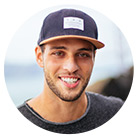
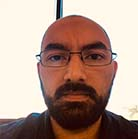
fix2

diff --git a/src/Views/Website/Views/Slider/Slider1.js b/src/Views/Website/Views/Slider/Slider1.js
@@ -46,7 +46,7 @@ const Slider = () => {
                                 data-beforeafter="before"
                                 data-transform_idle="o:1;" data-transform_in="z:0;rX:0;rY:0;rZ:0;sX:0.9;sY:0.9;skX:0;skY:0;opacity:0;s:1500;e:Power3.easeInOut;" data-transform_out="y:[100%];s:1000;e:Power2.easeInOut;s:1000;e:Power2.easeInOut;" data-mask_out="x:inherit;y:inherit;s:inherit;e:inherit;"
                                 data-start="1200" data-splitin="none" data-splitout="none"
-                                style={{ zIndex: 2, fontWeight: 700, letterSpacing: "1px", color: "#ffffff", fontFamily: "'Poppins', sans-serif", textTransform: "capitalize" }}>antonomasia auto-regenerativo
+                                style={{ zIndex: 2, fontWeight: 700, letterSpacing: "1px", color: "#ffffff", fontFamily: "'Poppins', sans-serif", textTransform: "capitalize" }}>REGEONERATION
                             </div><div class="tp-caption tp-resizeme rs-parallaxlevel-5"
                                 data-x="['center','center','center','center']" data-hoffset="['0','0','0','0']"
                                 data-y="['middle','middle','middle','middle']" data-voffset="['-70','-70','-70','-70']"
@@ -57,7 +57,7 @@ const Slider = () => {
                                 data-beforeafter="after"
                                 data-transform_idle="o:1;" data-transform_in="z:0;rX:0;rY:0;rZ:0;sX:0.9;sY:0.9;skX:0;skY:0;opacity:0;s:1500;e:Power3.easeInOut;" data-transform_out="y:[100%];s:1000;e:Power2.easeInOut;s:1000;e:Power2.easeInOut;" data-mask_out="x:inherit;y:inherit;s:inherit;e:inherit;"
                                 data-start="1200" data-splitin="none" data-splitout="none"
-                                style={{ zIndex: 2, fontWeight: 700, letterSpacing: "1px", color: "#ffffff", fontFamily: "'Poppins', sans-serif", textTransform: "capitalize" }}>antonomasia auto-regenerativo
+                                style={{ zIndex: 2, fontWeight: 700, letterSpacing: "1px", color: "#ffffff", fontFamily: "'Poppins', sans-serif", textTransform: "capitalize" }}>REGEONERATION
                             </div>
                             <div class="tp-caption tp-resizeme rs-parallaxlevel-5"
                                 data-x="['center','center','center','center']" data-hoffset="['0','0','0','0']"
@@ -169,7 +169,7 @@ const Slider = () => {
                                 data-beforeafter="before"
                                 data-transform_idle="o:1;" data-transform_in="z:0;rX:0;rY:0;rZ:0;sX:0.9;sY:0.9;skX:0;skY:0;opacity:0;s:1500;e:Power3.easeInOut;" data-transform_out="y:[100%];s:1000;e:Power2.easeInOut;s:1000;e:Power2.easeInOut;" data-mask_out="x:inherit;y:inherit;s:inherit;e:inherit;"
                                 data-start="1200" data-splitin="none" data-splitout="none"
-                                style={{ zIndex: 2, fontWeight: 700, letterSpacing: 1, color: "#ffffff", fontFamily: "'Poppins', sans-serif", textTransform: "capitalize" }}>antonomasia auto-regenerativo
+                                style={{ zIndex: 2, fontWeight: 700, letterSpacing: 1, color: "#ffffff", fontFamily: "'Poppins', sans-serif", textTransform: "capitalize" }}>REGEONERATION
                             </div>
                             <div class="tp-caption tp-resizeme rs-parallaxlevel-5"
                                 data-x="['center','center','center','center']" data-hoffset="['0','0','0','0']"
@@ -181,7 +181,7 @@ const Slider = () => {
                                 data-beforeafter="after"
                                 data-transform_idle="o:1;" data-transform_in="z:0;rX:0;rY:0;rZ:0;sX:0.9;sY:0.9;skX:0;skY:0;opacity:0;s:1500;e:Power3.easeInOut;" data-transform_out="y:[100%];s:1000;e:Power2.easeInOut;s:1000;e:Power2.easeInOut;" data-mask_out="x:inherit;y:inherit;s:inherit;e:inherit;"
                                 data-start="1200" data-splitin="none" data-splitout="none"
-                                style={{ zIndex: 2, fontWeight: 700, letterSpacing: 1, color: "#ffffff", fontFamily: "'Poppins', sans-serif", textTransform: "capitalize" }}>antonomasia auto-regenerativo
+                                style={{ zIndex: 2, fontWeight: 700, letterSpacing: 1, color: "#ffffff", fontFamily: "'Poppins', sans-serif", textTransform: "capitalize" }}>REGEONERATION
                             </div>
                             <div class="tp-caption tp-resizeme rs-parallaxlevel-5"
                                 data-x="['center','center','center','center']" data-hoffset="['0','0','0','0']"
@@ -304,7 +304,7 @@ const Slider = () => {
                                 data-beforeafter="before"
                                 data-transform_idle="o:1;" data-transform_in="z:0;rX:0;rY:0;rZ:0;sX:0.9;sY:0.9;skX:0;skY:0;opacity:0;s:1500;e:Power3.easeInOut;" data-transform_out="y:[100%];s:1000;e:Power2.easeInOut;s:1000;e:Power2.easeInOut;" data-mask_out="x:inherit;y:inherit;s:inherit;e:inherit;"
                                 data-start="1200" data-splitin="none" data-splitout="none"
-                                style={{zIndex:2, fontWeight: 700, letterSpacing: 1, color: "#ffffff", fontFamily: "'Poppins', sans-serif",textTransform:"capitalize"}}>antonomasia auto-regenerativo
+                                style={{ zIndex: 2, fontWeight: 700, letterSpacing: 1, color: "#ffffff", fontFamily: "'Poppins', sans-serif", textTransform: "capitalize" }}>REGEONERATION
                             </div>
                             <div class="tp-caption tp-resizeme rs-parallaxlevel-5"
                                 data-x="['center','center','center','center']" data-hoffset="['0','0','0','0']"
@@ -316,20 +316,38 @@ const Slider = () => {
                                 data-beforeafter="after"
                                 data-transform_idle="o:1;" data-transform_in="z:0;rX:0;rY:0;rZ:0;sX:0.9;sY:0.9;skX:0;skY:0;opacity:0;s:1500;e:Power3.easeInOut;" data-transform_out="y:[100%];s:1000;e:Power2.easeInOut;s:1000;e:Power2.easeInOut;" data-mask_out="x:inherit;y:inherit;s:inherit;e:inherit;"
                                 data-start="1200" data-splitin="none" data-splitout="none"
-                                style={{zIndex:2, fontWeight: 700, letterSpacing: 1, color: "#ffffff", fontFamily: "'Poppins', sans-serif",textTransform:"capitalize"}}>antonomasia auto-regenerativo
+                                style={{ zIndex: 2, fontWeight: 700, letterSpacing: 1, color: "#ffffff", fontFamily: "'Poppins', sans-serif", textTransform: "capitalize" }}>
                             </div>
                             <div class="tp-caption tp-resizeme"
-                                id="slide-24-layer-128" data-x="['center','center','center','center']"
-                                data-hoffset="['0','0','0','0']" data-y="['bottom','bottom','bottom','bottom']"
-                                data-voffset="['140','70','70','130']"
-                                data-width="['160','160','160','160']"
-                                data-frames='[{"delay":600,"speed":2000,"frame":"0","from":"sX:1;sY:1;opacity:0;fb:40px;","to":"o:1;fb:0;","ease":"Power4.easeInOut"},{"delay":"wait","speed":300,"frame":"999","to":"opacity:0;fb:0;","ease":"Power3.easeInOut"}]'
-                                data-textAlign="['center','center','center','center']"
-                                style={{zIndex:99, maxWidth: 960}}>
-                                <a href="#page2" class="scroll btn btn-large btn-rounded btn-blue color-white link">get started
-                                </a>
+                                data-x="['center','center','center','center']" data-hoffset="['0','0','0','0']"
+                                data-y="['middle','middle','middle','middle']" data-voffset="['-20','-20','-20','-20']"
+                                data-fontsize="['22','22','18','18']"
+                                data-whitespace="nowrap" data-responsive_offset="on"
+                                data-width="['none','none','none','none']" data-type="text"
+                                data-textalign="['center','center','center','center']"
+                                data-beforeafter="before"
+                                data-transform_idle="o:1;"
+                                data-transform_in="z:0;rX:0deg;rY:0;rZ:0;sX:2;sY:2;skX:0;skY:0;opacity:0;s:1000;e:Power2.easeOut;"
+                                data-transform_out="s:1000;e:Power3.easeInOut;s:1000;e:Power3.easeInOut;"
+                                data-mask_in="x:0px;y:0px;s:inherit;e:inherit;"
+                                data-start="1500" data-splitin="none" data-splitout="none"
+                                style={{ zIndex: 4, fontWeight: 100, color: "#ffffff", lineHeight: 5, fontFamily: "'Open Sans', sans-serif", textTransform: "capitalize" }}>Un token y metaverso respaldado por tierra conservada
                             </div>
-
+                            <div class="tp-caption tp-resizeme"
+                                data-x="['center','center','center','center']" data-hoffset="['0','0','0','0']"
+                                data-y="['middle','middle','middle','middle']" data-voffset="['70','70','70','70']"
+                                data-fontsize="['22','22','18','18']"
+                                data-whitespace="nowrap" data-responsive_offset="on"
+                                data-width="['none','none','none','none']" data-type="text"
+                                data-textalign="['center','center','center','center']"
+                                data-beforeafter="after"
+                                data-transform_idle="o:1;"
+                                data-transform_in="z:0;rX:0deg;rY:0;rZ:0;sX:2;sY:2;skX:0;skY:0;opacity:0;s:1000;e:Power2.easeOut;"
+                                data-transform_out="s:1000;e:Power3.easeInOut;s:1000;e:Power3.easeInOut;"
+                                data-mask_in="x:0px;y:0px;s:inherit;e:inherit;"
+                                data-start="1500" data-splitin="none" data-splitout="none"
+                                style={{ zIndex: 4, fontWeight: 100, color: "#ffffff", lineHeight: 30, fontFamily: "'Open Sans', sans-serif", textTransform: "capitalize" }}>
+                            </div>
                         </li>
                     </ul>
                     {/* <div class="tp-bannertimer tp-bottom" style={{visibility: "hidden !important"}}></div> */}

diff --git a/src/Views/Website/Views/Service/index.js b/src/Views/Website/Views/Service/index.js
@@ -12,37 +12,18 @@ const Service = () => {
                                 <div class="services-icon per-slide">
                                     <i class="lni-cup wow fadeInUp"></i>
                                 </div>
-                                <h1 class="mb-4 text-white per-slide wow fadeInRight font-weight-light shining-text">¿Que es landia?</h1>
+                                <h1 class="mb-4 text-white per-slide wow fadeInRight font-weight-light shining-text">Visión</h1>
                                 <div class="testimonial-line wow fadeInRight"></div>
-                                <p data-aos="fade-left" class="mb-5 per-slide text-white wow fadeInLeft" style={{ textAlign: "justify" }}>Landia reconoce la necesidad de crear y desarrollar nuevas formas de fomento
-                                    económico, a través de prácticas económicas rentables y simbióticas a nivel medioambiental
-                                    y social. En este momento es indispensable poner en práctica sistemas empresariales
-                                    ecológicamente auto-regenerativos1
-                                    , pensados y creados para lograr el mejor rendimiento
-                                    posible con un horizonte autosustentable en el mundo digital y físico. El futuro debe ser por
-                                    antonomasia auto-regenerativo, sino no habrá futuro ni legado ambiental a las siguientes
-                                    generaciones</p>
+                                <p data-aos="fade-left" class="mb-5 per-slide text-white wow fadeInLeft" style={{ textAlign: "justify" }}>La visión de Landia es potenciar, crear, desarrollar e integrar formas de fomento económico que sean simbióticas a nivel medioambiental, social y permitan el desarrollo del espíritu humano y científico. Con esto se busca que los activos naturales que permiten la vida en la tierra, adquieran un valor cuantificable económicamente en el blockchain a través de un marketplace cuya infraestructura base incluye galerías NFT, Token, Turismo Digital, Espacios de Disfrute Físicos y dentro de un Metaverso realista con juegos Play to Earn, así como la conexión e integración de Landia con otros ecosistemas y viceversa. </p>
                             </div>
                             <div class="services-item item text-center text-md-right">
                                 <div class="services-icon per-slide">
                                     <i class="lni-world wow fadeInUp"></i>
                                 </div>
-                                <h1 class="mb-4 text-white per-slide wow fadeInRight font-weight-light shining-text">PROBLEMATIZACIÓN </h1>
+                                <h1 class="mb-4 text-white per-slide wow fadeInRight font-weight-light shining-text">De lo digital a lo físico y de lo físico a lo digital </h1>
                                 <div class="testimonial-line wow fadeInRight"></div>
                                 <p data-aos="fade-left" class="mb-5 per-slide text-white wow fadeInLeft" style={{ textAlign: "justify" }}>
-                                    La pérdida de ecosistemas causará una baja en el GDP de alrededor de $2.7 trillones
-                                    para el 2030, con mayor intensidad para los países de ingresos bajos (Banco Mundial 2021).
-                                    Además, dentro del mundo blockchain los procesos de validación PoW requieren demasiado
-                                    poder energético para funcionar. Landia da una solución real y concisa a este problema global
-                                    antes de que la temperatura global supere los 1,5° C. Utilizando la capacidad tecnológica a
-                                    bajo coste energético interoperable y de consenso del mundo DeFi, dando auge a todo un
-                                    nuevo ecosistema de realidades auto-regenerativas primeramente a través del Token Land
-                                    para financiar proyectos de protección ambiental, investigación científica y espiritual y
-                                    filantropía entrelazadas por corredores biológicos. Comercializando programas empresariales
-                                    e individuales de descarbonización, generando pooles de liquidez, staking, yieldfarming para
-                                    proyectos en incubación, y una vez recaudada la liquidez necesaria también la construcción
-                                    habitacional inteligente CO2 neutral auto sustentable, innovación, entre otras, según se
-                                    pruebe cuales diseños son los más eficaces, eficientes y rentables en la praxis.
+                                    Landia genera una economía que va del mundo físico a lo digital y viceversa, logrando así impactar y generar necesidad en ambas esferas de las 2 realidades y en el punto de encuentro entre ambas: 1. la Realidad Física 2.la realidad del Metaverso Landia 3. Su Conexión con el Resto de Ecosistemas, en aras de una ineludible transición hacia una digitalización. Esta transición conlleva la responsabilidad de transicionar también hacia formas simbióticas y regenerativas en temas medioambientales y sociales.
                                 </p>
                             </div>
                             <div class="services-item item text-center text-md-right">
@@ -51,18 +32,7 @@ const Service = () => {
                                 </div>
                                 <h1 class="mb-4 text-white per-slide wow fadeInRight font-weight-light shining-text">BOSQUES TROPICALES</h1>
                                 <div class="testimonial-line wow fadeInRight"></div>
-                                <p data-aos="fade-left" class="mb-5 per-slide text-white wow fadeInLeft" style={{ textAlign: "justify" }}>
-                                    La necesidad de proteger los bosques y selvas tropicales es uno de los pilares
-                                    máximos para garantizar ambientes globales habitables. Las zonas de flora y fauna tropical
-                                    ocupan menos del 7%, que varían según la definición, de la superficie terrestre de la Tierra,
-                                    pero estas selvas tropicales albergan alrededor de la mitad de las especies de la Tierra y son
-                                    ecológica, económica y culturalmente cruciales para los problemas de seguridad alimentaria
-                                    mundial, cambio climático, biodiversidad y salud humana. (García RA et al. 2009). Además,
-                                    dos tercios de las especies se encuentran en los trópicos (Groombridge y Jenkins 2003), las
-                                    estimaciones actuales son que entre 3,3 y 20 millones de especies residen allí, la inmensa
-                                    mayoría en los bosques tropicales (Lewis, 2006). Si partimos de que las selvas tropicales
-                                    albergan aproximadamente dos tercios de los seres vivientes que existen en la Tierra, con
-                                    altas tasas de endemismo y un gran número de especies raras. </p>
+                                <p data-aos="fade-left" class="mb-5 per-slide text-white wow fadeInLeft" style={{ textAlign: "justify" }}>Landia es una plataforma DeFi cuya misión principal es regenerar 250 millones de hectáreas de bosque en los próximos 14 años sin caer en prácticas monocultivistas, a través de planes de manejo forestal y ambiental premeditados. A través de nuestra economía circular, políticas de gobernanza y consenso a través de nuestro DAO se busca tomar las mejores decisiones en conjunto para generar riqueza y que esta sea redistribuida a través de nuestro ecosistema y así lograr una expansión masiva.</p>
                             </div>
                         </div>
                     </div>

diff --git a/src/Views/Website/Views/Team/index.js b/src/Views/Website/Views/Team/index.js
@@ -1,34 +1,39 @@
 import React from 'react'
 
 const Team = () => {
-  return (
-    <section class="section bg-team" id="page3">
-    <div class="bg-overlay bg-black opacity-4"></div>
-    <div class="container h-100">
-        <div class="row h-100">
-            <div class="col-md-6 my-auto">
-                <div id="testimonial-quote" class="owl-carousel">
-                    <div class="item">
-                        <div class="testimonial-quote whitecolor">
-                            <div class="team-img mb-4"><img src="/images/testimonial-img1.jpg" alt="img"/></div>
-                            <h1 class="font-weight-light mb-3 alt-font">Arturo Montanaro</h1>
-                            <div class="mb-3 testimonial-line wow fadeInleft"></div>
-                            <div class="mb-1 mb-md-5"> <span>CEO</span></div>
-                            <div class="team-description mb-1 mb-md-5"><p class="m-0">Texto Texto</p></div>
-                        </div>
-                    </div>
+    return (
+        <section class="section bg-team" id="page3">
+            <div class="bg-overlay bg-black opacity-4"></div>
+            <div class="container h-100">
+                <div class="row h-100">
+                    <div class="col-md-6 my-auto">
+                        <div id="testimonial-quote" class="owl-carousel">
+                            <div class="item">
+                                <div class="testimonial-quote whitecolor">
+                                    <div class="team-img mb-4"><img src="/images/testimonial-img1.jpg" alt="img" /></div>
+                                    <h1 class="font-weight-light mb-3 alt-font">Arturo Montanaro</h1>
+                                    <div class="mb-3 testimonial-line wow fadeInleft"></div>
+                                    <div class="mb-1 mb-md-5"> <span>CEO</span></div>
+                                    <div class="team-description mb-1 mb-md-5"><p class="m-0">Texto Texto</p></div>
+                                </div>
+                            </div>
 
-                    <div class="item">
-                        <div class="testimonial-quote whitecolor">
-                            <div class="team-img mb-4"><img src="/images/testimonial-img2.jpg" alt="img"/></div>
-                            <h1 class="font-weight-light mb-3 alt-font">Guillermo</h1>
-                            <div class="mb-3 testimonial-line wow fadeInleft"></div>
-                            <div class="mb-5"> <span>??</span></div>
-                            <div class="team-description mb-5"><p>Texto Texto.</p></div>
-                        </div>
-                    </div>
+                            <div class="item">
+                                <div class="testimonial-quote whitecolor">
+                                    <div class="team-img mb-4"><img src="/images/testimonial-img2.jpg" alt="img" /></div>
+                                    <h1 class="font-weight-light mb-3 alt-font">Guillermo Gharib</h1>
+                                    <div class="mb-3 testimonial-line wow fadeInleft"></div>
+                                    <div class="mb-5"> <span>COO</span></div>
+                                    <div class="team-description mb-5"><p>+15 Años en Posiciones Gerenciales gestionando equipos de 50 a +250 empleados.<br />
+                                        +10 Años de experiencia en finanzas.<br />
+                                        +7 años de experiencia en Biz Dev<br />
+                                        Customer Engagement & Sales Experience en América del Norte, América del Sur y mercados CAM.<br />
+                                        Seguimiento comprobado de éxito en la gestión de campañas u organizaciones de las que he formado parte.<br />
+                                        Certificación en PMP, Six Sigma, ITIL, manejo de la ira, manejo del tiempo, habilidades blandas, BI y ciencia de datos.</p></div>
+                                </div>
+                            </div>
 
-                    {/* <div class="item">
+                            {/* <div class="item">
                         <div class="testimonial-quote whitecolor">
                             <div class="team-img mb-4"><img src="/images/testimonial-img3.jpg" alt="img"/></div>
                             <h1 class="font-weight-light mb-3 alt-font">Tena Walkin</h1>
@@ -50,19 +55,19 @@ const Team = () => {
                                 quos dolores et quas.</p></div>
                         </div>
                     </div> */}
+                        </div>
+                        <div id="owl-thumbs" class="owl-dots">
+                            <button class="owl-dot active link"><img src="/images/testimonial-img1.jpg" alt="img" /></button>
+                            <button class="owl-dot link"><img src="/images/testimonial-img2.jpg" alt="img" /></button>
+                            <button class="owl-dot link"><img src="/images/testimonial-img3.jpg" alt="img" /></button>
+                            <button class="owl-dot link"><img src="/images/testimonial-img4.jpg" alt="img" /></button>
+                        </div>
+                        <div class="team-item d-none"></div>
+                    </div>
                 </div>
-                <div id="owl-thumbs" class="owl-dots">
-                    <button class="owl-dot active link"><img src="/images/testimonial-img1.jpg"  alt="img"/></button>
-                    <button class="owl-dot link"><img src="/images/testimonial-img2.jpg"  alt="img"/></button>
-                    <button class="owl-dot link"><img src="/images/testimonial-img3.jpg"  alt="img"/></button>
-                    <button class="owl-dot link"><img src="/images/testimonial-img4.jpg"  alt="img"/></button>
-                </div>
-                <div class="team-item d-none"></div>
             </div>
-        </div>
-    </div>
-</section>
-  )
+        </section>
+    )
 }
 
 export default Team
